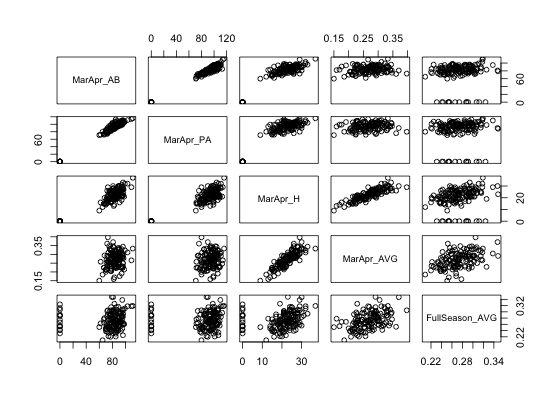
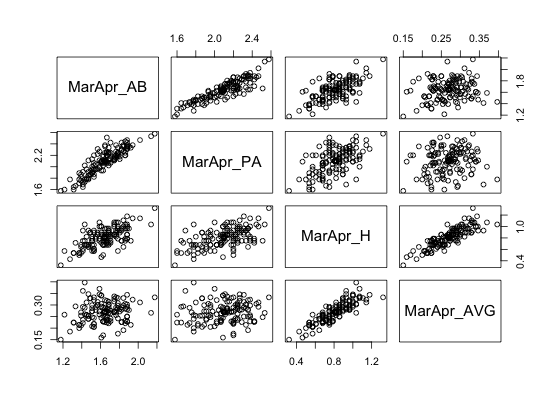
revise diagnostic analysis

Changed region(s): [[0.0609, 0.0602, 0.9444, 0.9323], [0.8835, 0.9023, 0.914, 0.9323], [0.457, 0.9023, 0.4875, 0.9323]]

diff --git a/README.md b/README.md
@@ -106,34 +106,43 @@ plot(model.1)
 As shown in the results, all the variables do not have statistically significant in predicting batting average at the end of the season. The diagnostic visualization illustrates this regression model allows too many residuals in finding the fitting line (See Figure 3). By examining correlation plots between variables, we can evidence why this regression modeling is not satisfactory.  
 ```r  
 # Plot correlation
-plot(batting[2:6])
+plot(batting[2:5])
+
+# Check correlation
+cor(batting[2:5])
+
+# Results
+           MarApr_AB MarApr_PA  MarApr_H MarApr_AVG
+MarApr_AB  1.0000000 0.8804867 0.6474490  0.1813621
+MarApr_PA  0.8804867 1.0000000 0.5610167  0.1501031
+MarApr_H   0.6474490 0.5610167 1.0000000  0.8608918
+MarApr_AVG 0.1813621 0.1501031 0.8608918  1.0000000  
 ```  
 ![alt text][correlation-plots]  
 *Figure 4. Diagnostic plots of the predictive model*  
-Figure 4 displays correlation plots between predictors. As rendered in the figure, we can intuitively identify correlations among 1) **MarApr_AB**, **MarApr_PA**, and **MarApr_H** and 2) **MarApr_H** and **MarApr_AVG**. However, the dependent variable has weak correlations only with **MarApr_H** and **MarApr_AVG**. It is often argued that **considering too many variables with few trends causes less predictive analytics**. Based on this observation, we remodel linear regression, given two predictors.  
+Figure 4 displays correlation plots between predictors. As rendered in the figure, we can intuitively identify correlations between 1) **MarApr_AB** and **MarApr_PA** and 2) **MarApr_H** and **MarApr_AVG** are high (See also the correlation results in the code box). It is often argued that many predictive methods perform better **if highly correlated attributes are removed**. Since, there are two sets of variables highly correlated (>= .75), we need to choose only one variable in one set. To refine the model, we choose **MarApr_PA** and **MarApr_AVG** since they are also less correlated with other predictors.   
 ```r
 # Remodel linear regression
-model.2 <- lm(FullSeason_AVG ~ MarApr_H + MarApr_AVG, batting)
+model.2 <- lm(FullSeason_AVG ~ MarApr_PA + MarApr_AVG, batting)
 
 # Results
 summary(model.2)
 Coefficients:
             Estimate Std. Error t value Pr(>|t|)    
-(Intercept) 0.204017   0.012456   16.38   <2e-16 ***
-MarApr_H    0.002157   0.000839    2.57    0.011 *  
-MarApr_AVG  0.074807   0.088885    0.84    0.402    
+(Intercept) 0.158598   0.021979   7.216 2.89e-11 ***
+MarApr_PA   0.021737   0.009474   2.294   0.0232 *  
+MarApr_AVG  0.255364   0.046788   5.458 2.07e-07 ***
 ---
-Signif. codes:  0 '***' 0.001 '**' 0.01 '*' 0.05 '.' 0.1 ' ' 1
+Signif. codes:  0 ‘***’ 0.001 ‘**’ 0.01 ‘*’ 0.05 ‘.’ 0.1 ‘ ’ 1
 
-Residual standard error: 0.0236 on 129 degrees of freedom
-  (14 observations deleted due to missingness)
-Multiple R-squared:  0.248,	Adjusted R-squared:  0.237 
-F-statistic: 21.3 on 2 and 129 DF,  p-value: 1e-08
+Residual standard error: 0.02411 on 143 degrees of freedom
+Multiple R-squared:  0.2173,  Adjusted R-squared:  0.2064 
+F-statistic: 19.85 on 2 and 143 DF,  p-value: 2.46e-08
 ```  
-With the revised model, **MarApr_H** is shown to be a significant predictor for the revised model (See the code box above). The predictive power became stronger (former slope: 6.83e-04, current slope: 0.002157). **MarApr_AVG** appears not to be statistically significant while having more predictive power than **MarApr_H** (slope: 0.074807).
+With the revised model, **MarApr_AVG** is shown to be a significant predictor within a 99.9% confidence interval (See the code box above). The predictive power became stronger (former slope: 1.94e-01, current slope: 0.255364). **MarApr_PA** also appears to be statistically significant while having the increased predictive power (former slope: 6.94e-05, current slope: 0.021737).
 The predictions made by these two models are included in [the data sheet](https://github.com/liberaliscomputing/phillies-baseball-questionnaire/tree/master/data/results.csv) (See the last two columns). 
 ## Conclusion
-In this questionnaire, I aimed to describe my analytical appraoches toward making accurate predcitions of batting average in the Major League. To this end, I explored the charicteristics of the data set. Based on this observations, predictors were scaled and corrupted data were imputed to make better predictive analytics. Results showed that the model consisdering all the variables has less predictive power. The revised model showed an enhanced capability in predicting batting average at the end of the season. For the future work, we need to employ more or compounding variables such as Batting average on balls in play (BABIP) and WAR since they consider a variety of aspects in play. 
+In this questionnaire, I aimed to describe my analytical appraoches toward making accurate predcitions of batting average in the Major League. To this end, I explored the charicteristics of the data set. Based on this observations, predictors were scaled and corrupted data were imputed to make better predictive analytics. Results showed that the model consisdering all the variables has less predictive power. The revised model showed an enhanced capability in predicting batting average at the end of the season. For the future work, we need to examine more or compounding variables such as Batting average on balls in play (BABIP) and WAR since they consider a variety of aspects in play. 
 ## R Code
 Complete code is available [here](https://github.com/liberaliscomputing/phillies-baseball-questionnaire/tree/master/code/predict_batting_average.R).
 ## References  
